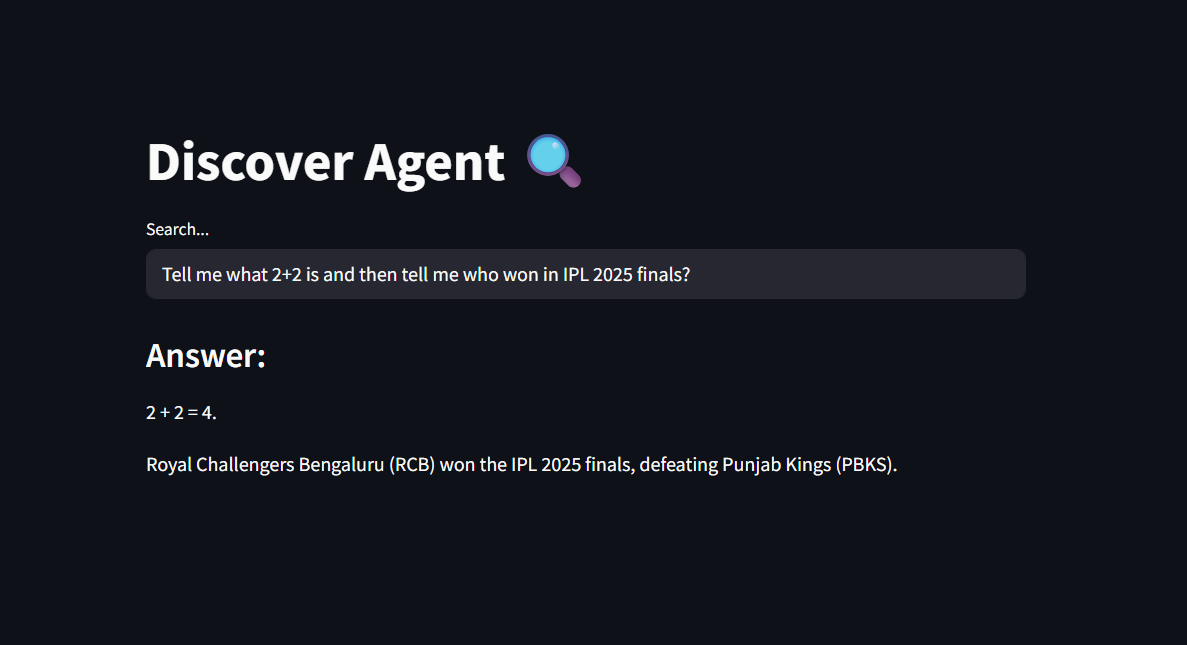
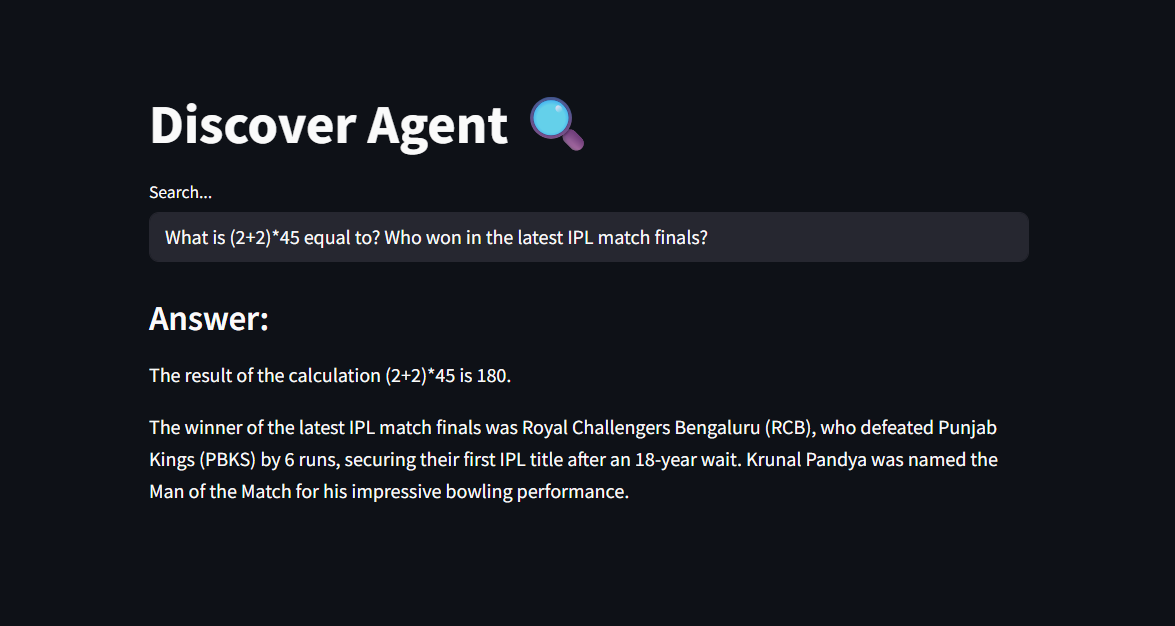
Changed Model, Added Datetime Tool

Changed region(s): [[0.1226, 0.1518, 0.8885, 0.8195]]

diff --git a/helper.py b/helper.py
@@ -1,10 +1,13 @@
 import os
 from dotenv import load_dotenv
 import logging
+from datetime import datetime
 from typing_extensions import TypedDict
 from typing import Annotated
+from langchain.tools import Tool
 from langchain_community.tools import DuckDuckGoSearchRun
 from langchain_google_genai import ChatGoogleGenerativeAI
+from langchain_groq import ChatGroq
 from langchain_core.messages import AnyMessage
 from langgraph.graph.message import add_messages
 from langgraph.graph import START, END, StateGraph
@@ -26,13 +29,19 @@ class Helper:
     @staticmethod
     def initialize_tools() -> list:
         print("Inside initialize_tools")
+        datetime_tool = Tool(
+            name='datetime',
+            description='A tool to get the current date and time in realtime.',
+            func=lambda x: datetime.now()
+        )
         duck_duck_tool = DuckDuckGoSearchRun()
-        return [duck_duck_tool]
+        return [datetime_tool, duck_duck_tool]
 
     @staticmethod
     def initialize_llm():
         print("Inside initialize_llm")
-        llm = ChatGoogleGenerativeAI(model='gemini-2.0-flash-exp', google_api_key=os.environ['GEMINI_API_KEY'])
+        # llm = ChatGoogleGenerativeAI(model='gemini-2.0-flash-exp', google_api_key=os.environ['GEMINI_API_KEY'])
+        llm = ChatGroq(model='deepseek-r1-distill-llama-70b', temperature=0.7, api_key=os.environ['GROQ_API_KEY'])
         return llm
 
     def tool_calling_llm_as_node(self, state: State):

diff --git a/ReadMe.md b/ReadMe.md
@@ -1,8 +1,32 @@
 # 🔎 Discover Agent
 
-Discover Agent is an AI-powered web search application that utilizes **LangGraph** agents and **DuckDuckGo** as the information retrieval tool. Unlike traditional workflows, this project dynamically decides when, how and whether to use tools during execution, showcasing the power of autonomous **AI agents** in navigating uncertain tasks.
+Discover Agent is an AI-powered web search application that utilizes **LangGraph Agents**, **DuckDuckGo** search, and Groq-hosted **DeepSeek-R1 Distill LLaMA 70B** to dynamically fetch and synthesize information. Unlike traditional workflows, this project dynamically decides when, how and whether to use tools during execution, showcasing the power of autonomous **AI agents** in navigating uncertain tasks.
 
 ![img.png](img.png)
+
+---
+
+## 🚀 Project Overview
+
+This project creates a **Discover Agent** that:
+
+* Accepts natural language queries via a web UI,
+* Uses DeepSeek-R1 LLaMA 70B Distill (hosted on Groq) as the reasoning LLM,
+* Employs tools such as:
+  * DuckDuckGo Search for real-time web lookup, 
+  * Datetime tool to fetch current date/time if needed,
+* Routes the conversation intelligently via LangGraph,
+* Displays real-time, concise answers.
+
+## ✨ Features
+
+* 🌐 Real-time Web Search (DuckDuckGo)
+* 🕓 Current Date & Time Tool
+* 🧭 deepseek-r1-distill-llama-70b via Groq for planning and response generation
+* 🧱 LangGraph Agent with tool invocation and conditional logic
+* 🔄 Stateful and flexible architecture
+* 🖥 Streamlit-based user interface
+* ⚡ FastAPI backend
 
 ---
 
@@ -10,14 +34,13 @@ Discover Agent is an AI-powered web search application that utilizes **LangGraph
 
 An **AI Agent** is a self-directed system that:
 
+* Interprets complex input (e.g., human questions),
 * Perceives its environment (e.g., user queries and tools),
 * Decides what actions (e.g., tools to use) to take independently,
 * Acts autonomously (e.g., fetches and processes information),
 * And adapts based on feedback or reasoning loops.
 
-LangGraph agents go beyond static workflows by supporting conditional branching, autonomous tool use decisions, and persistent state handling.
-
----
+LangGraph provides a framework to build these agents with dynamic, branching logic and persistent memory, surpassing traditional workflows. LangGraph agents go beyond static workflows by supporting conditional branching, autonomous tool use decisions, and persistent state handling.
 
 ## 🔄 LangGraph vs. LangChain: Why LangGraph?
 
@@ -29,8 +52,6 @@ LangGraph agents go beyond static workflows by supporting conditional branching,
 | Flexibility         | Better for **multi-step, dynamic logic** | Suitable for **simple tool chains** |
 
 **LangGraph** is ideal when you need an agent that decides *when* to use a tool and *how* to proceed after tool output—like in this project.
-
----
 
 ## 🧠 Discover Agent vs. Discover (Workflow)
 
@@ -48,29 +69,6 @@ Here is a [link](https://github.com/harshith-77/discover) to the previous versio
 
 * Slightly more overhead to set up initially
 * Graph logic can be overkill for very simple tasks
-
----
-
-## 🚀 Project Overview
-
-This project creates a **Discover Agent** that:
-
-* Accepts natural language queries via a web UI,
-* Uses Google's Gemini model (via `langchain-google-genai`) to interpret and plan,
-* Leverages the DuckDuckGo tool for web search,
-* Routes the conversation intelligently via LangGraph,
-* Displays real-time, concise answers whenever needed.
-
----
-
-## ✨ Features
-
-* 🌐 DuckDuckGo-powered Web Search
-* 🧭 Gemini-2 LLM for planning and response generation
-* 🧱 LangGraph Agent with tool invocation and conditional logic
-* 🔄 Stateful and flexible architecture
-* 🖥 Streamlit-based user interface
-* ⚡ FastAPI backend
 
 ---
 
@@ -97,8 +95,6 @@ Create a `.env` file with:
 GEMINI_API_KEY=your_google_genai_key
 ```
 
----
-
 ## ▶ Run the App
 
 ### Start the FastAPI backend:
@@ -113,18 +109,16 @@ python main.py
 streamlit run main_ui.py
 ```
 
----
-
 ## 🧰 Tech Stack
 
-| Layer       | Technology                |
-| ----------- | ------------------------- |
-| LLM         | Gemini 2.0 Flash (Google) |
-| Agent       | LangGraph                 |
-| Tool        | DuckDuckGoSearchRun       |
-| UI          | Streamlit                 |
-| Backend     | FastAPI + Uvicorn         |
-| Env Manager | python-dotenv             |
+| Layer       | Technology                                 |
+| ----------- |--------------------------------------------|
+| LLM         | DeepSeek-R1 LLaMA 70B Distill via Groq API |
+| Agent       | LangGraph                                  |
+| Tool        | DuckDuckGoSearchRun, Custom Datetime Tool  |
+| UI          | Streamlit                                  |
+| Backend     | FastAPI + Uvicorn                          |
+| Env Manager | python-dotenv                              |
 
 ---
 
@@ -137,8 +131,6 @@ streamlit run main_ui.py
 ├── .env              # API keys (not checked into git)
 ├── requirements.txt  # Python dependencies
 ```
-
----
 
 ## 🗣 Example Usage
 
